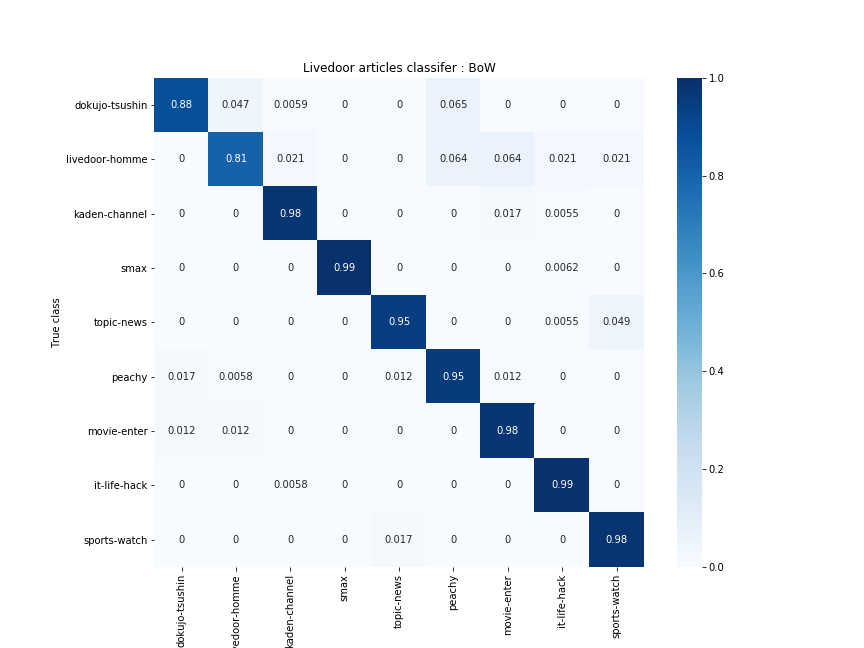
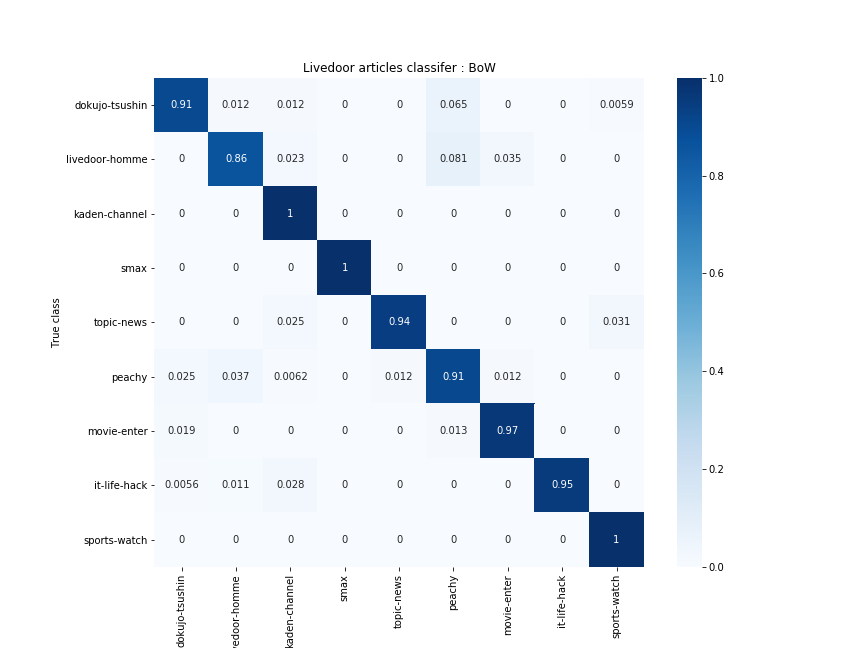
【v1.00】「完成！」

diff --git a/models/LanguageModel/Co_Matrix.py b/models/LanguageModel/Co_Matrix.py
@@ -7,15 +7,17 @@ class CoMatrix():
     """
     文章ベクトル
     　＝　文書中に現れた全単語の単語ベクトルを足し合わせ、総単語数で割る
-    　＝　文書中に現れた単語のベクトルを、全単語分 計算する。
+    　＝　文書中に現れた単語のベクトルを、全単語 計算する。
     　　　 → 文章を入力すると、その文章に含まれる全単語ベクトルを足し合わせ、総単語数で割った値を返す。
     """
-    def __init__(self, token2id):
+    def __init__(self, token2id, tknd_all_sentences, window_size=2):
         # 文書中に現れた単語のベクトルを、全単語分 計算する。
         vocab_size = len(token2id)
         self.co_matrix = np.zeros((vocab_size, vocab_size), dtype=np.int32)
         self.w2i = token2id
-
+        # 初期化時に、共起行列ベクトルを完成させておく。
+        for tknd_s in tqdm(tknd_all_sentences):
+            self.update(tknd_s)
 
     def update(self, tknd_corpus, window_size=2):
         """
@@ -32,11 +34,10 @@ class CoMatrix():
             共起判定の範囲。ウィンドウサイズ
         """
         corpus_size = len(tknd_corpus)
-
         try:
             for ti in range(corpus_size):
                 for ci in range(1, window_size + 1):
-                    if ti-ci > 0:
+                    if ti-ci >= 0:
                         self.update_co_matrix(tknd_corpus[ti], tknd_corpus[ti - ci])
                     if ti+ci < corpus_size:
                         self.update_co_matrix(tknd_corpus[ti], tknd_corpus[ti + ci])
@@ -48,43 +49,43 @@ class CoMatrix():
     def update_co_matrix(self, target_w, context_w):
         self.co_matrix[self.w2i[target_w], self.w2i[context_w]] += 1
 
-    def embed_co_marrix(self):
+    def embed_co_marrix(self, tknd_corpus):
         """
         全単語ベクトルを足し合わせ、総単語数で割る
         """
+        sum_vec = np.zeros_like(self.co_matrix[1,:])
+        for token in tknd_corpus:
+            sum_vec += self.co_matrix[self.w2i[token],:]
+            # print(sum_vec)
+        sum_vec = sum_vec / len(tknd_corpus)  # 総単語数で割る
+        return sum_vec
 
 
 
 if __name__ == "__main__":
-    # word_list=['natural', 'language', 'text', 'count', 'word', 'tknd_corpus', 'python', 'program', 'programs']
-    # token2id = pre.identify_some_tokens(word_list)
-    # vocab_size = len(word_list)
-    # co_matrix = None
-    # for text in tqdm(docs):
-    #     tknd_corpus = build_tknd_corpus(text, token2id,   word_list)
-    #     co_matrix = update_matrix(tknd_corpus, vocab_size, co_matrix, window_size=2)
-
-    # # cos類似度適用前
-    # print('\n')
-    # pd.DataFrame(co_matrix, index=word_to_id.keys(), columns=word_to_id.keys())
-
     try:  # 無視する単語は飛ばす
         test_dict = {'a': 3, 'b': 45}
         test_dict['c']
     except KeyError:
-        print('無視する単語は飛ばす')
+        print('無視する単語は飛ばす\n')
 
 
     # test
-    tknd_corpus = [['吾輩', 'は', '猫', 'である'], ['名前', 'は', 'まだ', 'ない']]
+    tknd_corpus = [['吾輩', 'は', '猫', 'である', '。'],
+                    ['名前', 'は', 'まだ', 'ない', '。'],
+                    ['吾輩', 'は', 'ここ', 'で', '始めて', '人間', 'という', 'もの', 'を', '見た', '。']]
     # まず word2id を作る。
     token_set = set()
     for tknd_s in tqdm(tknd_corpus):
-        token_set = pre.add_tokens_set(token_set, tknd_s)   # Token の集合（set） を作成。（set は、dict のkeyだけ版）
+        token_set = token_set | set(tknd_s)   # Token の集合（set） を作成。（set は、dict のkeyだけ版）
     data_w2i = pre.identify_some_tokens(token_set)
     print(data_w2i)
     # word2id を元に、共起行列を作る。
-    cm = CoMatrix(data_w2i)
-    for tknd_s in tqdm(tknd_corpus):
-        cm.update(tknd_s)  # Token の集合（set） を作成。（set は、dict のkeyだけ版）
+    cm = CoMatrix(data_w2i, tknd_corpus)
     print(cm.co_matrix)
+    # 共起行列を元に、入力文（章）をベクトル化
+    for tknd_s in tknd_corpus:
+        print('--------------------------')
+        vec = cm.embed_co_marrix(tknd_s)
+        print('sentence : {} \nlen : {}  \nvec : \n{}'.format(tknd_s, len(vec), vec))
+

diff --git a/models/LanguageModel/pre.py b/models/LanguageModel/pre.py
@@ -3,14 +3,6 @@
 # Embedding する前に行う処理を集めた。
 
 ###  Token（単語）に ID を振る  ###
-# sentenceに含まれる、全ての Token の集合を取得する。
-# 重複が削除された、Token の集合（set）が返ってくる。
-def add_tokens_set(token_set:set, add_tokens_list):
-    # 集合(set) に変換して、重複を削除する。
-    # 和集合を取る。（重複が削除された状態の、Token の集合が得られる）
-    return token_set | set(add_tokens_list)
-
-
 # 指定した word （some_words に含まれるもののみ）にIDを振る。
 # 言い換えると、some_words に ID を振る。
 def identify_some_tokens(some_words):

diff --git a/README.md b/README.md
@@ -1,3 +1,11 @@
-【琉大講義課題】「データマイニング」Report3-Lv4
+# 【琉大講義課題】「データマイニング」Report3-Lv4
 
+## Bow と 共起行列 による文書分類
+- main.ipynb に、Google Colabratory で開くリンクがあるので、それを押して、自分の Google Drive にコピーして使う。（ことを前提に作った）
 
+- 「ランタイム」→「すべてのセルを実行」 で全自動で  
+    文書分類結果の混同行列まで表示するように作った。
+
+- BoW と 共起行列は、「Layer3：分類モデル」の節で、  
+    選択ボックスで選ぶ形式にした。
+    - 「以降のセルを実行」で、そこからまとめて実行することをおすすめ。
